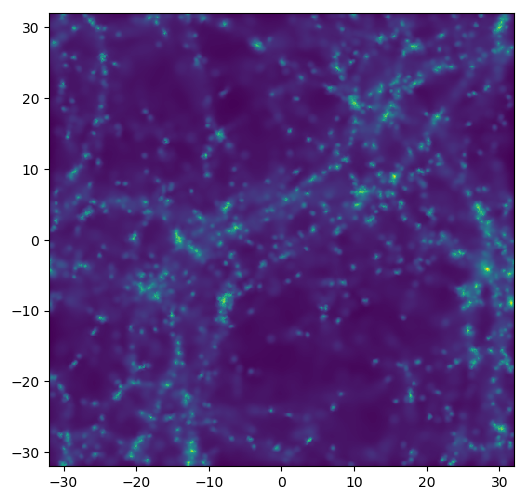
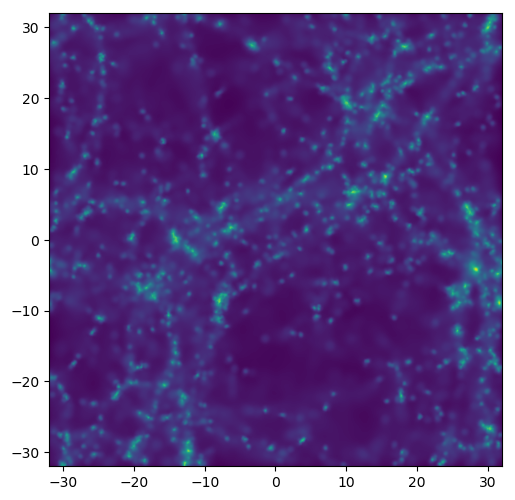
fixing typos

diff --git a/content/tutorials.md b/content/tutorials.md
@@ -27,7 +27,7 @@ from sphviewer.tools import QuickView
 with h5py.File('darkmatter_box.h5py','r') as f:
     pdrk = f['PartType1/Coordinates'].value
 
-QuickView(pdrk.T, r='infinity', cmap='heat')
+QuickView(pdrk, r='infinity')
 ```
 
 which produces the following image:

diff --git a/index.md b/index.md
@@ -86,7 +86,7 @@ from sphviewer.tools import QuickView
 with h5py.File('darkmatter_box.h5py','r') as f:
     pdrk = f['PartType1/Coordinates'].value
 
-QuickView(pdrk, r='infinity', cmap='heat')
+QuickView(pdrk, r='infinity')
 ```
 
 which produces the following image:
